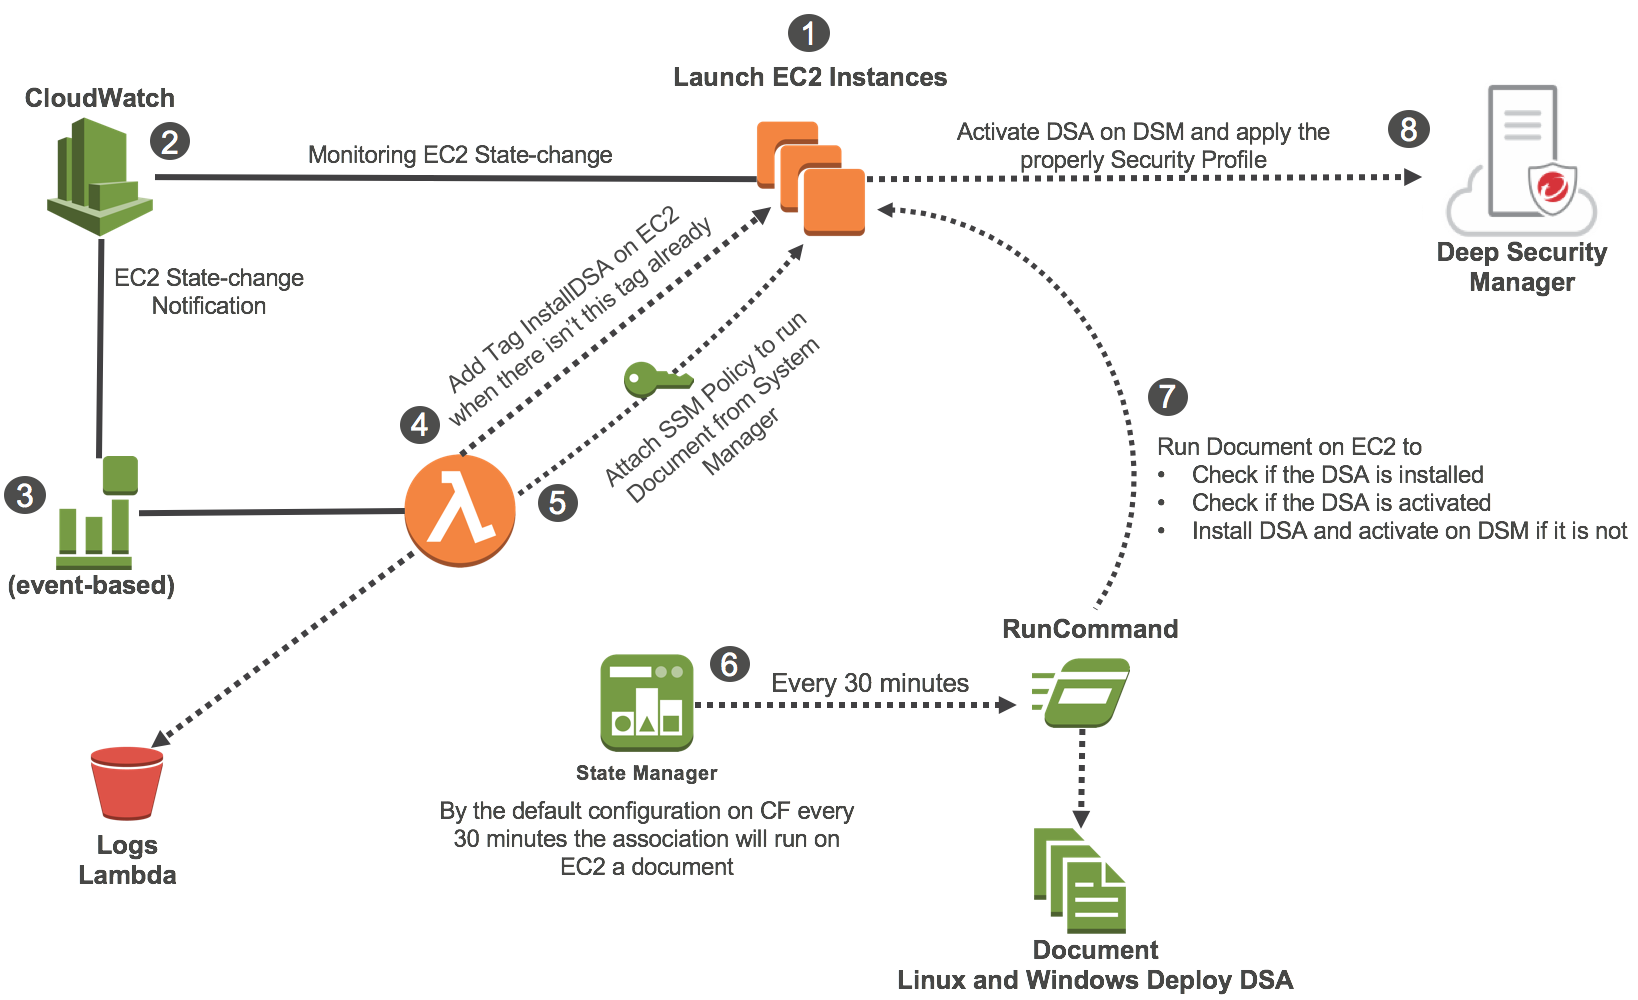
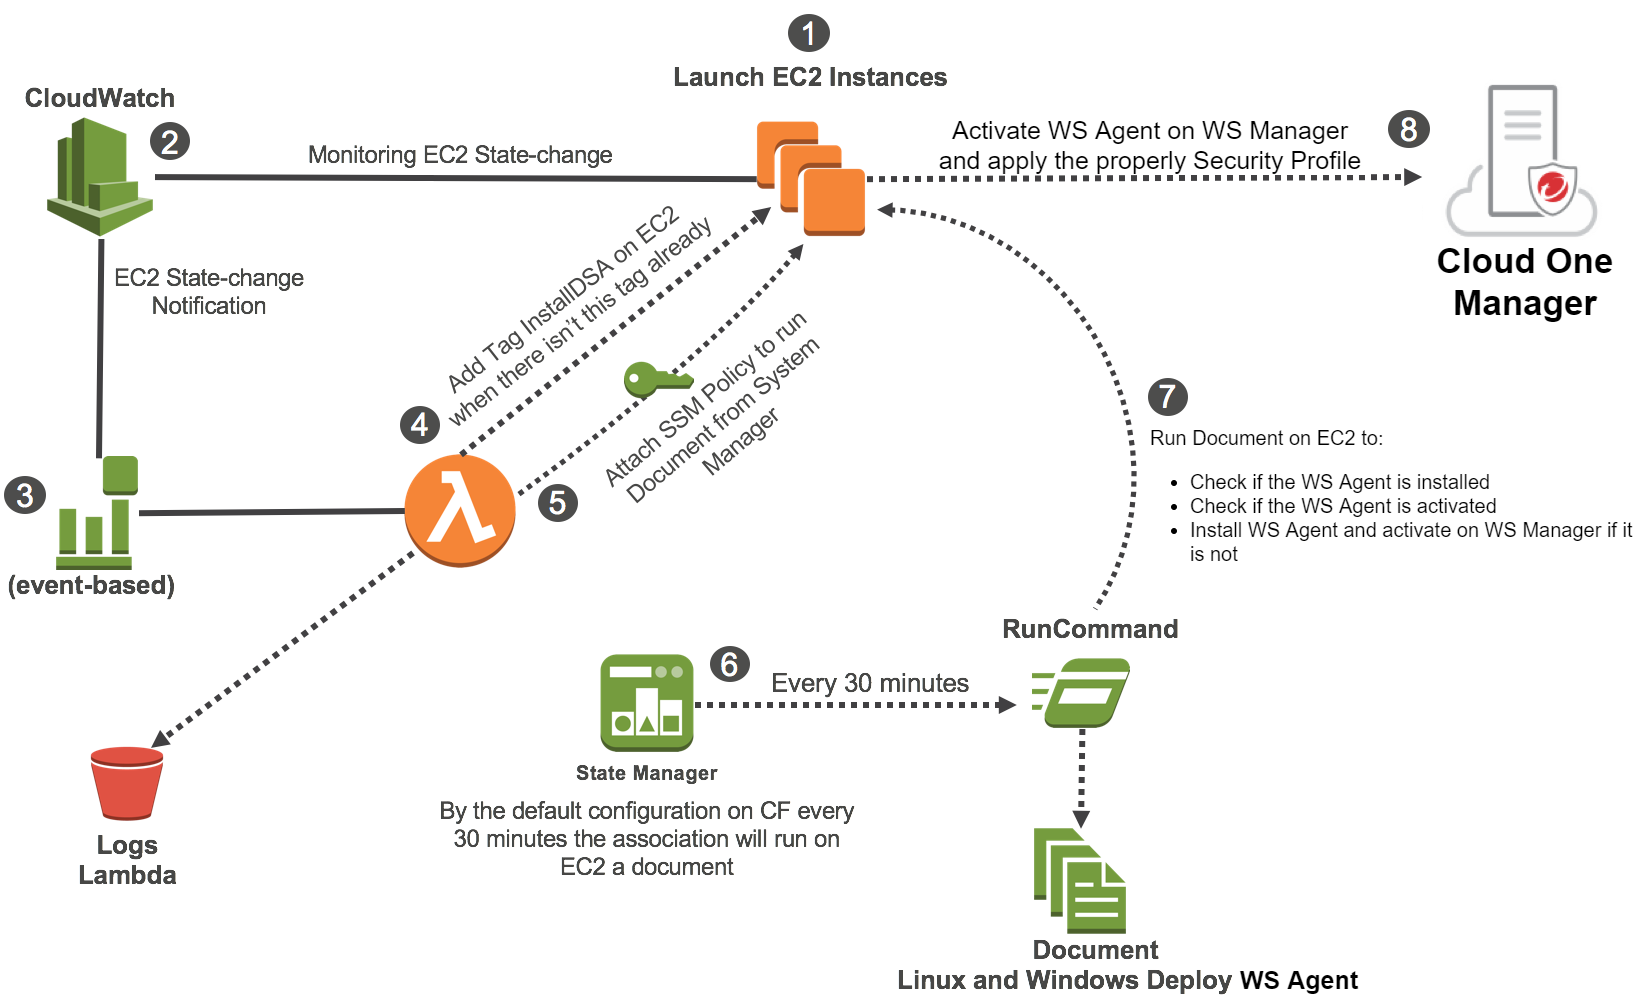
change name from ds to c1 workload security

diff --git a/Workload-Security/Deployment/python-agent-deploy-automation-using-lambda/README.md b/Workload-Security/Deployment/python-agent-deploy-automation-using-lambda/README.md
@@ -1,6 +1,6 @@
-# DS Agents Deploy Automation using Lambda 
+# Cloud One Workload Security Agents Deploy Automation using Lambda 
 
-Automation process to deploy, activate, and check the Deep Security Agents using Lambda function and State Manger Association from AWS
+Automation process to deploy, activate, and check the Cloud One Workload Security Agents using Lambda function and State Manger Association from AWS
 
 ![](Architecture_version2.png)
  
